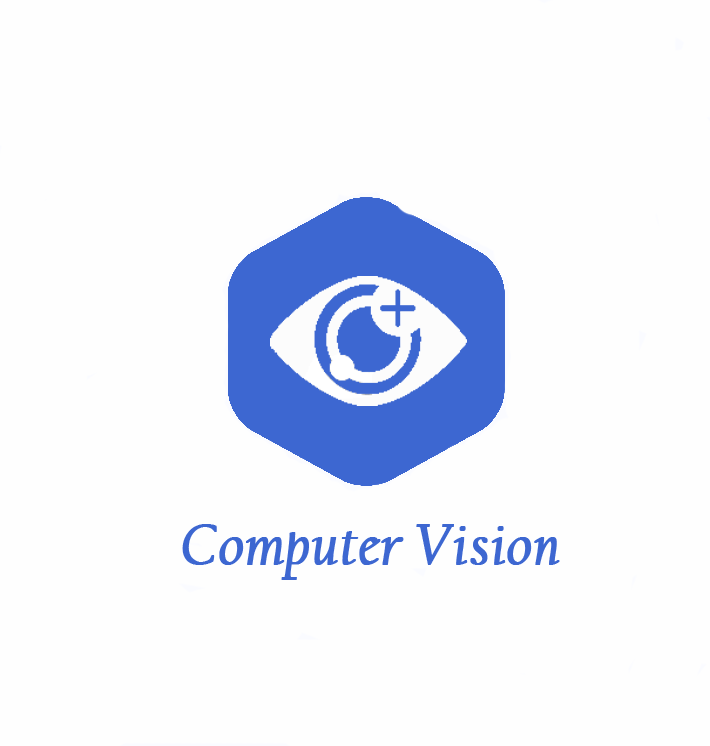
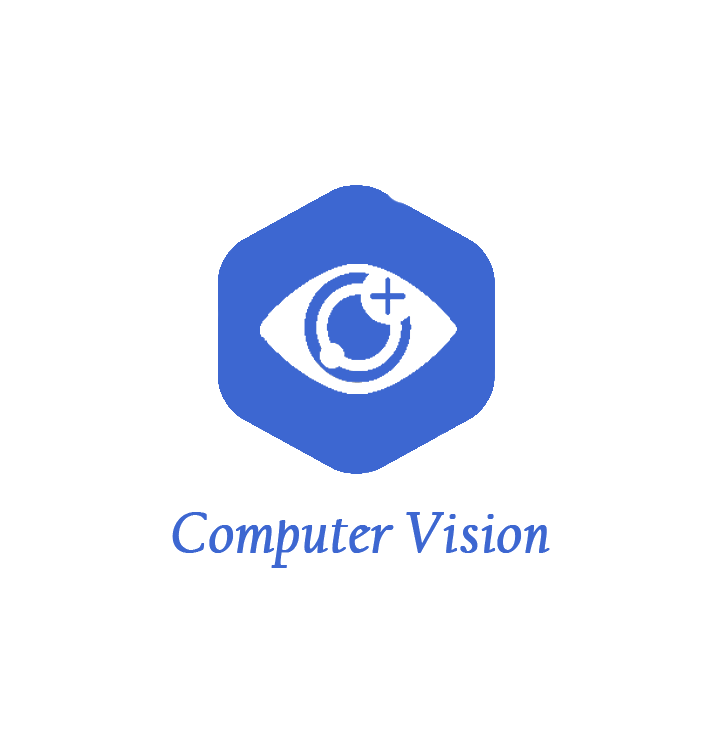
Added new sponsors (#15)

diff --git a/index.html b/index.html
@@ -142,22 +142,22 @@
                             </p>
                             <div class="row">
                                 <div class="col-sm-2">
-                                    <img alt="Internet of Things" border="0" src="images/tracks/iot.png" width="150">
+                                    <img alt="Internet of Things" border="0" src="images/tracks/iot.png" width="175">
                                 </div>
                                 <div class="col-sm-2">
-                                    <img alt="FinTech" border="0" src="images/tracks/fintech.png" width="150">
+                                    <img alt="FinTech" border="0" src="images/tracks/fintech.png" width="175">
                                 </div>
                                 <div class="col-sm-2">
-                                    <img alt="Retail" border="0" src="images/tracks/retail.png" width="150">
+                                    <img alt="Retail" border="0" src="images/tracks/retail.png" width="175">
                                 </div>
                                 <div class="col-sm-2">
-                                    <img alt="Machine Learning" border="0" src="images/tracks/ml.png" width="150">
+                                    <img alt="Machine Learning" border="0" src="images/tracks/ml.png" width="175">
                                 </div>
                                 <div class="col-sm-2">
-                                    <img alt="Computer Vision" border="0" src="images/tracks/cv.png" width="150">
+                                    <img alt="Computer Vision" border="0" src="images/tracks/cv.png" width="175">
                                 </div>
                                 <div class="col-sm-2">
-                                    <img alt="End Tech" border="0" src="images/tracks/edtech.png" width="150">
+                                    <img alt="End Tech" border="0" src="images/tracks/edtech.png" width="175">
                                 </div>
                             </div>                            
                         </div>
@@ -203,8 +203,6 @@
                 <!--=====================================          
                              Sponsor of 2.0          
                 =====================================-->
-
-
                 <div class="lnmhacks-customized-section smoothScroll" style="margin-bottom:40px;">
                     <div class="lnmhacks-sponsors-section-image">
                         <div class="lnmhacks-customized-section-text">
@@ -215,28 +213,43 @@
                              Clubs Partipating         
                 =====================================-->
                             <div class="row">
-                                <div class="col-sm-4">
-                                    <a href="https://about.gitlab.com/" target="_blank"><img alt="Gitlab" border="0" src="images/sponsors/gitlab.png" width="160" height="150"></a>
-                                </div>
-                                <div class="col-sm-4">
-                                    <a href="https://www.stickermule.com" target="_blank"><img alt="StickerMule" border="0" 
-                                            src="images/sponsors/stickermule.png" width="200" height="115"></a>
-                                </div>
-                                <div class="col-sm-4">
-                                    <a href="https://www.hackerearth.com/" target="_blank"><img alt="HackerEarth" border="0" src="images/sponsors/hackerearth.png" width="225" height="50" style="margin-top: 30px;"></a>
+                                <div class="col-sm-3">
+                                    <a href="https://about.gitlab.com/" target="_blank"><img alt="Gitlab" border="0" src="images/sponsors/gitlab.png" width="140" height="150"></a>
                                 </div>
                                 <div class="col-sm-3">
-                                    <a href="https://www.digitalocean.com/" target="_blank"><img alt="DigitalOcean" border="0" src="images/sponsors/digital.png" width="150" height="125" style="margin-top: 40px;"></a>
+                                    <a href="https://www.hackerearth.com/" target="_blank"><img alt="HackerEarth" border="0" src="images/sponsors/hackerearth.png" width="225" height="50" style="margin-top: 60px;"></a>
+                                </div>
+                                <div class="col-sm-3">
+                                    <a href="https://github.com/" target="_blank"><img alt="Github" border="0" src="images/sponsors/github.png" width="175" height="80" style="margin-top: 40px;"></a>
+                                </div>
+                                <div class="col-sm-3">
+                                    <a href="https://balsamiq.com/" target="_blank"><img alt="Balsamiq" border="0" src="images/sponsors/balsamiq.png" width="175" height="120" style="margin-top: 40px;"></a>
+                                </div>
+                                <div class="col-sm-3">
+                                    <a href="http://radix.co.in/" target="_blank"><img alt="Radix" border="0" src="images/sponsors/tech.png" width="225" height="125" style="margin-top: 40px;"></a>
+                                </div>
+                                <div class="col-sm-3">
+                                    <a href="https://www.kaggle.com/" target="_blank"><img alt="Kaggle" border="0" src="images/sponsors/kaggle.png" width="175" height="70" style="margin-top: 60px;"></a>
+                                </div>
+                                <div class="col-sm-3">
+                                    <a href="https://www.digitalocean.com/" target="_blank"><img alt="DigitalOcean" border="0" src="images/sponsors/digital.png" width="150" height="125" style="margin-top: 30px;"></a>
+                                </div>
+                                <div class="col-sm-3">
+                                    <a href="https://www.twilio.com/" target="_blank"><img alt="Twilio" border="0" src="images/sponsors/twilio.png" width="150" height="60" style="margin-top: 40px;"></a>
+                                </div>                               
+                                <div class="col-sm-3">
+                                    <a href="https://www.stickermule.com" target="_blank"><img alt="StickerMule" border="0" 
+                                            src="images/sponsors/stickermule.png" width="200" height="115" style="margin-top: 20px;"></a>
                                 </div>
                                 <div class="col-sm-3">
                                     <a href="https://frapp.in/" target="_blank"><img alt="Frapp" border="0" src="images/sponsors/frapp.png" width="225" height="100" style="margin-top: 40px;"></a>
                                 </div>
                                 <div class="col-sm-3">
-                                    <a href="http://startupoasis.in/" target="_blank"><img alt="StartupOasis" border="0" src="images/sponsors/startup.png" width="175" height="100" style="margin-top: 40px;"></a>
-                                </div>
+                                    <a href="http://startupoasis.in/" target="_blank"><img alt="StartupOasis" border="0" src="images/sponsors/startup.png" width="175" height="80" style="margin-top: 40px;"></a>
+                                </div>                                                                   
                                 <div class="col-sm-3">
-                                    <a href="http://radix.co.in/" target="_blank"><img alt="Radix" border="0" src="images/sponsors/tech.png" width="225" height="125" style="margin-top: 40px;"></a>
-                                </div>
+                                    <a href="http://eatmynews.com/" target="_blank"><img alt="Eat My News" border="0" src="images/sponsors/eatmynews.png" width="175" height="100" style="margin-top: 40px;"></a>
+                                </div>                               
                             </div>
                         </div>
                     </div>

diff --git a/styles.css b/styles.css
@@ -336,7 +336,7 @@ a img{
       /*background: url('images/wear.jpg');*/
       background: #fff;
       background-repeat: no-repeat;
-      min-height: 725px;
+      min-height: 900px;
     }
 }
 
